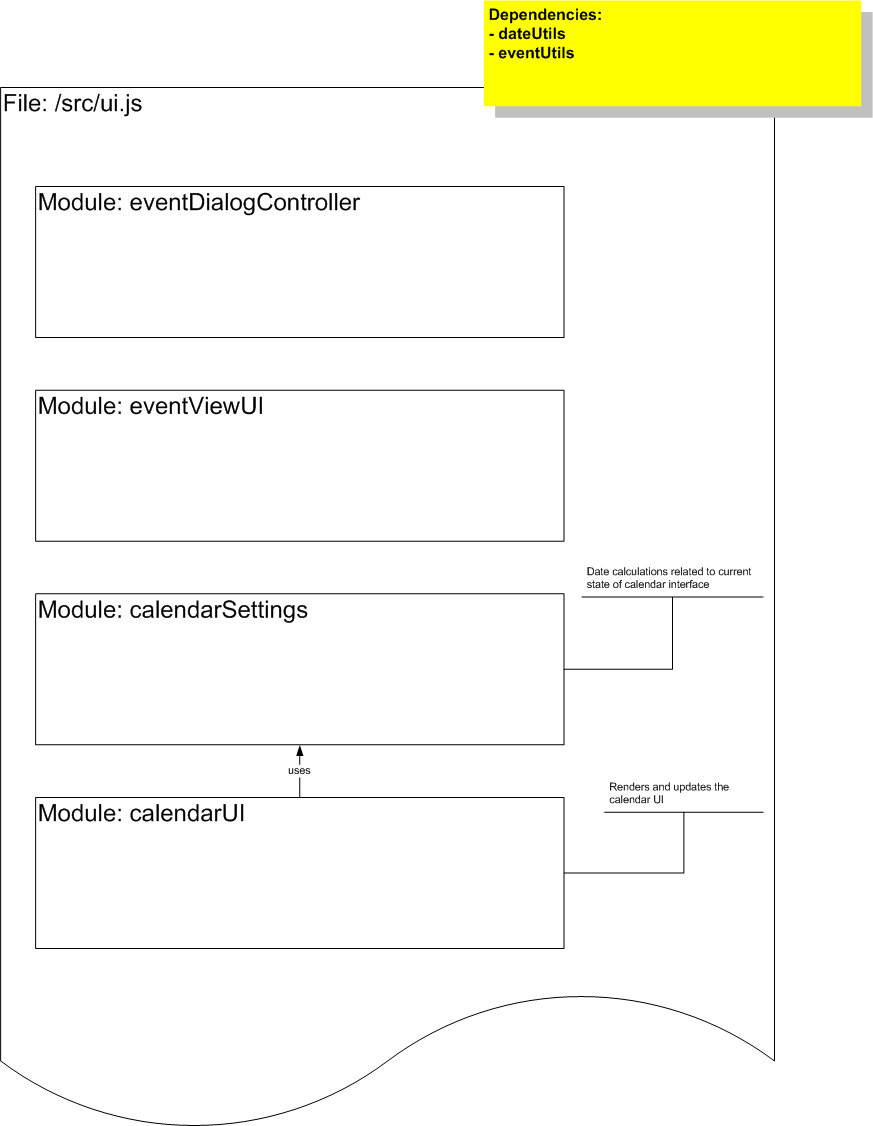
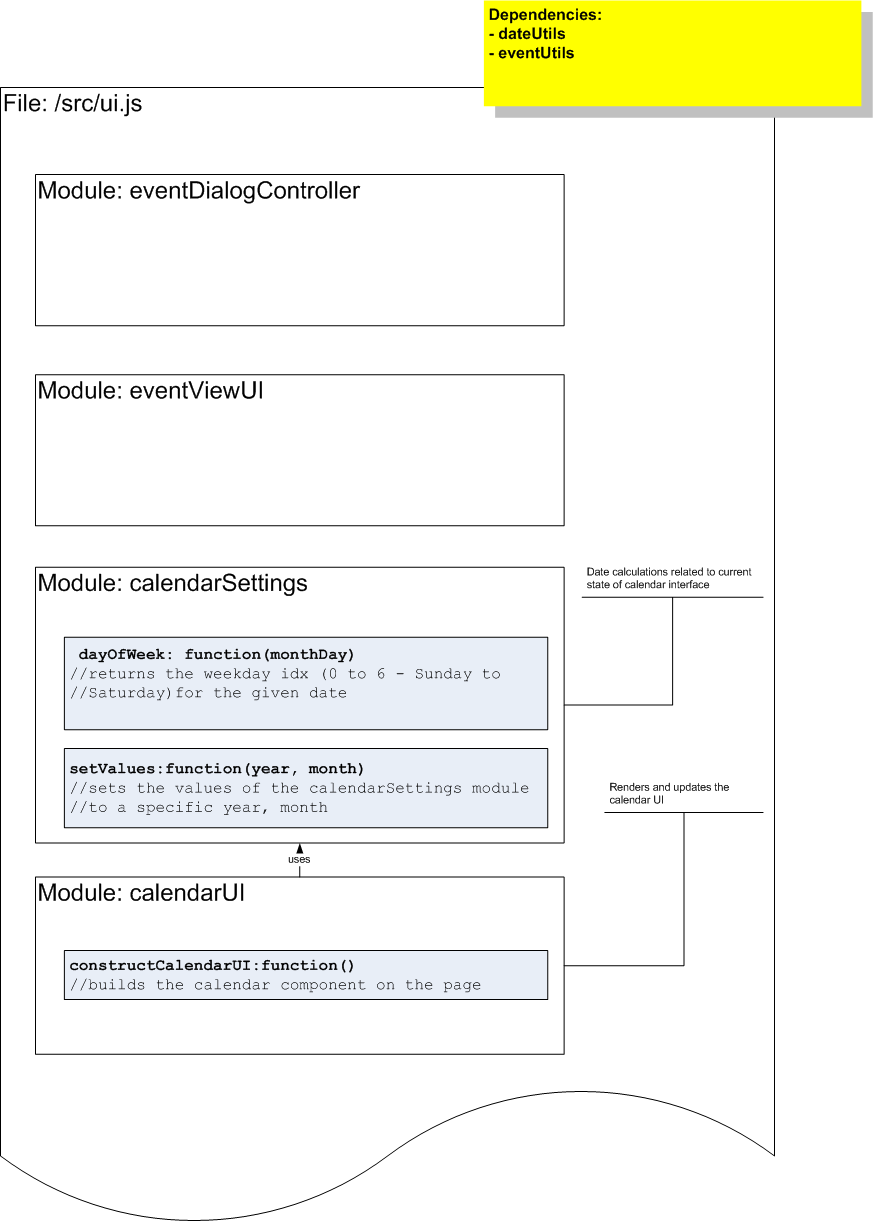
modified calendarSettings module

diff --git a/public/js/ui.js b/public/js/ui.js
@@ -92,6 +92,7 @@ const calendarSettings = (function() {
     let today = new Date(),
         month = today.getMonth(),
         year = today.getFullYear();
+    
 
     return {
 	    beginYear : function(){
@@ -100,34 +101,35 @@ const calendarSettings = (function() {
 	    endYear: function(){
 		    return 2030;
 	    },
+	getMonth: month, 
         setMonth: function(y, m) {
             year = y;
             month = m;
         },
         nextMonth: function() {
             let m, y;
-            if (this.month < 11) {
-                m = this.month + 1;
-                y = this.year;
+            if (month < 11) {
+                m = month + 1;
+                y = year;
             } else {
                 m = 0;
-                y = this.year + 1;
+                y = year + 1;
             }
             calendarSettings.setValues(y, m);
         },
         previousMonth: function() {
             let m, y;
-            if (this.month > 0) {
-                m = this.month - 1;
-                y = this.year;
+            if (month > 0) {
+                m = month - 1;
+                y = year;
             } else {
                 m = 11;
-                y = this.year - 1;
+                y = year - 1;
             }
             calendarSettings.setValues(y, m);
         },
 	yearIdx: function(){
-		return this.year - calendarSettings.beginYear();
+		return year - calendarSettings.beginYear();
 	},
         getYear: function() {
             return year;
@@ -135,27 +137,35 @@ const calendarSettings = (function() {
         firstDay: function() {
             return dateUtils.firstDayOfMonth(year, month);
         },
-        setValues: function(year, month) {
+
+	dayOfWeek: function(monthDay){
+	    //returns the weekday idx (0 to 6 - Sunday to Saturday)
+	    //for the given date 
+	    let d = new Date(year, month, monthDay);
+	    return d.getDay();
+	},
+	firstDayOfMonth : dateUtils.firstDayOfMonth(year, month), 
+	monthLength : dateUtils.monthLength(year, month), 
+        setValues: function(y, m) {
             if (arguments.length == 0) {
                 let today = new Date();
                 calendarSettings.setValues(today.getFullYear(), today.getMonth());
                 return;
             }
-            this.month = month;
-            this.year = year;
-            this.firstDayOfMonth = dateUtils.firstDayOfMonth(this.year, this.month);
-            this.monthLength = dateUtils.monthLength(this.year, this.month);
+            month = m;
+            year = y;
         }
     };
 })();
 
 const calendarUI = (function() {
-    let calendarTableTitle,
-        tag = (t, content, id) => `<${t}> ${content} </${t}>`,
+    let dayIds = [], 
+	calendarTableTitle,
+	tag = (t, content, id) => `<${t}> ${content} </${t}>`,
         setCalendarTitle = function() {
             calendarTableTitle =
-                dateUtils.monthIdxToStr(calendarSettings.month) +
-                " " + calendarSettings.year
+                dateUtils.monthIdxToStr(calendarSettings.getMonth) +
+                " " + calendarSettings.getYear();
             AJS.$("#tableCalendar-title").html("<h1 style='color:white'>" +
                 calendarTableTitle + "</h1>");
         },
@@ -173,26 +183,31 @@ const calendarUI = (function() {
         addTableBody = function() {
             let firstWeekday = calendarSettings.firstDay(),
                 currentDay = 1,
-                lastMonthDay = calendarSettings.monthLength,
-                dayIds = [];
-            while (currentDay <= lastMonthDay) {
+                lastMonthDay = calendarSettings.monthLength;
+	    //empty the dayIds array
+	    dayIds.length = 0;
+	
+            while (currentDay < lastMonthDay) {
                 currentDay = addWeekRow(currentDay);
             }
         },
 
         addWeekRow = function(currentDay) {
-	    let weekDayCell = (day) => {
+	    let weekRow = "", 
+	        weekDayCell = (day) => {
+			weekRow += `<td>${day === undefined?"--":day}</td>`;
+			return day;
 		}, 
             newWeekRow = dateUtils.weekDays.map((dayName, dayIdx) => {
                 //has the month begun yet?
-                if (currentDay.weekDayIdx > dayIdx) {
+                if (calendarSettings.dayOfWeek(currentDay) > dayIdx) {
                    weekDayCell();
                 } else if (currentDay > calendarSettings.monthLength) { //has the month already ended?
 		   weekDayCell();
                 } else { //make a regular week day cell
                     let dayID = weekDayCell(currentDay);
                     currentDay += 1; //increment current day
-                    dayIds.push[dayID]
+                    dayIds.push(dayID)
                 }
             });
 
@@ -204,8 +219,6 @@ const calendarUI = (function() {
          * builds the calendar user interface on the page
          * **********************************************************/
         constructCalendarUI: function() {
-            let dayCounter = 1;
-            let weekday1st = calendarSettings.firstDayOfMonth;
             setCalendarTitle();
             addTableBody();
         }

diff --git a/public/js/main.js b/public/js/main.js
@@ -233,7 +233,7 @@ AJS.toInit(function($) {
     }
 
     let setFormValues = function() { //updates the form values based on the calendarSettings values
-        document.dateChooser.chooseMonth.selectedIndex = calendarSettings.month;
+        document.dateChooser.chooseMonth.selectedIndex = calendarSettings.getMonth;
         let yearIDX = calendarSettings.yearIdx();
         document.dateChooser.chooseYear.selectedIndex = yearIDX;
     }
